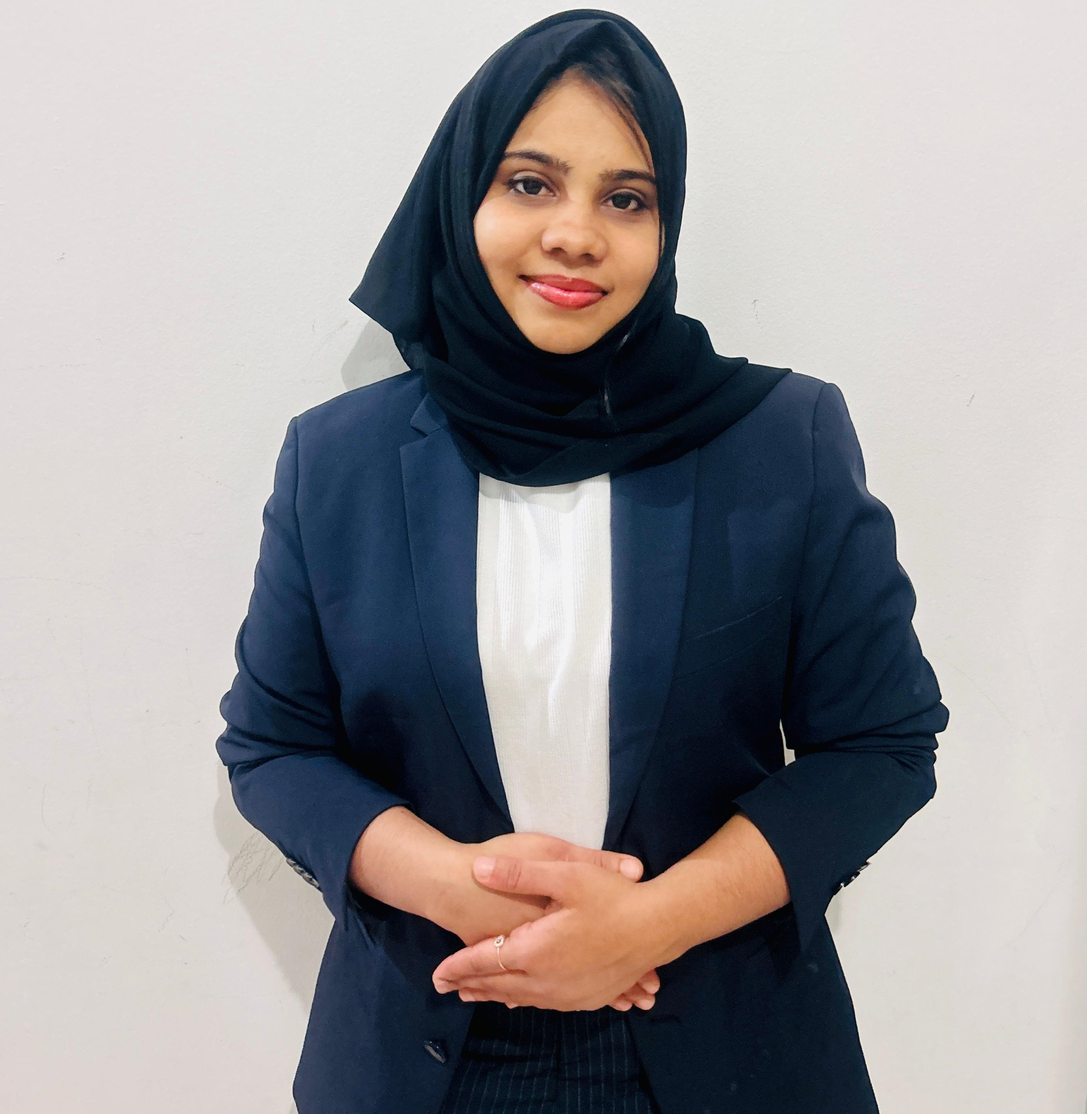
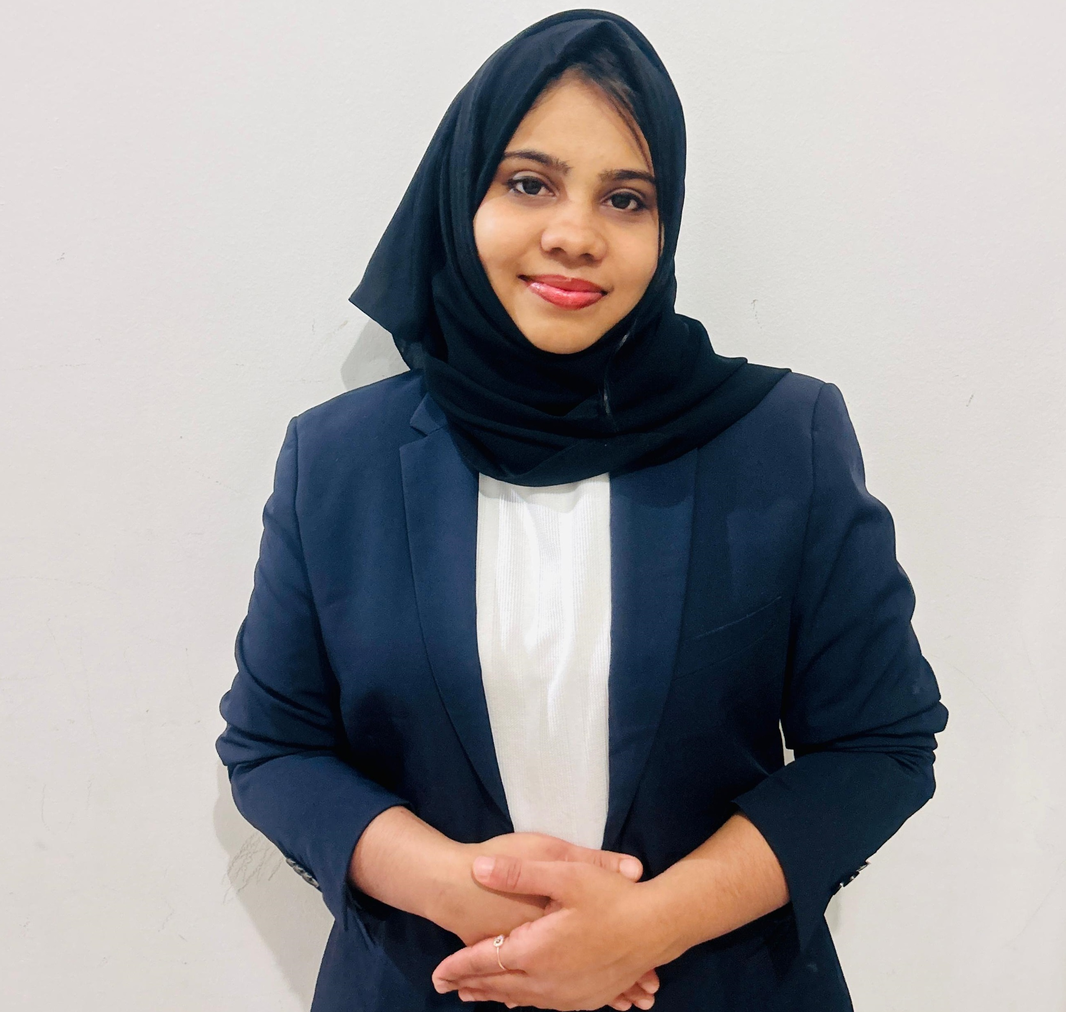
edited alignment

Changed region(s): [[0.1871, 0.0, 0.9045, 1.0], [0.9981, 0.9688, 1.0, 1.0]]

diff --git a/about.html b/about.html
@@ -41,19 +41,19 @@
         </header>
         <main class="flex-grow-1">
             <section id="about" class="py-5">
-                <div class="container">
-                    <div class="row align-items-center ">
-                        <div class=" col-md-6 col-sm-12 ">
+                <div class="container px-3 px-md-0">
+
+                    <div class="row align-items-center align-items-lg-start ">
+                        <div class=" col-md-6 col-sm-10 mt-3 mt-md-5 mt-lg-7 ">
 
                             <div class="frame">
-                                <img src="./images/about.jpeg" alt="About-Image" class=" about-image ">
+                                <img src="./images/about.jpeg" alt="About-Image" class=" about-image  ">
                             </div>
 
                         </div>
-                        <div class=" col-md-6 col-sm-12 ">
-                            <h2 class="text-warning"><span>About</span> Me </h2>
-
-                            <p class="text-secondary">
+                        <div class="col-md-6 col-sm-12 d-flex flex-column align-items-center align-items-lg-start">
+                            <h2 class="text-warning text-center text-lg-start"><span>About</span> Me</h2>
+                            <p class="text-secondary text-center text-lg-start">
                                 With One year of experience in React.js development, I am passionate about crafting modern, interactive, and responsive web applications. I specialize in front-end technologies, including React, Material UI, and Bootstrap, to create seamless and intuitive user experiences. My focus is on writing clean, efficient, and maintainable code while ensuring that every project aligns with the latest web standards and best practices. I am constantly learning and evolving, staying updated with industry trends to deliver high-quality, scalable solutions. Let's collaborate to turn ideas into functional, visually appealing web applications that make an impact!
                             </p>
                             

diff --git a/index.html b/index.html
@@ -44,8 +44,8 @@
         
         <!-- Hero section -->
  <section id="hero" class="py-5">
-    <div class="container">
-        <div class="row align-items-center">
+    <div class="container px-3 px-md-0">
+        <div class="row align-items-center  align-items-lg-start">
             <!-- Image Column - Appears first on small screens -->
             <div class="col-md-12 col-lg-6 order-first order-lg-last text-center">
                 <img src="./images/hero-page-image.jpeg" alt="hero picture" class="img-fluid w-75 rounded-5">
@@ -53,7 +53,7 @@
 
             <!-- Text Column - Appears last on small screens -->
             <div class="col-md-12 col-lg-6 text-center text-lg-start">
-                <h2>Hello, Welcome</h2>
+                <h2 class="mt-3 mt-md-5 mt-lg-7">Hello, Welcome</h2>
                 <h1><strong>I am Afra Fayas</strong></h1>
                 <h5 class="text-secondary">React Web Developer | Creative Designer | Problem Solver</h5>
                 <p class="text-secondary">

diff --git a/contact.html b/contact.html
@@ -46,8 +46,8 @@
 
 <!-- Contact Form -->
 <section  id="contact" class="py-5">
-    <div class="container">
-    <h2 class="text-warning text-center py-3"> <span>Contact</span>Me</h2>
+    <div class="container px-3 px-md-0">
+    <h2 class="text-warning text-center py-3"> <span>Contact</span> Me</h2>
     <form class="bg-light p-4 rounded-3 border border-warning mx-auto py-3" style="max-width: 600px;">
         <div class="mb-3">
             <label for="name" class="form-label">Name:</label>

diff --git a/projects.html b/projects.html
@@ -44,7 +44,7 @@
         <main flex-grow-1>
 
             <section id="projects" class="py-5">
-                <div class="container">
+                <div class="container px-3 px-md-0">
                   <h2 class="text-center mb-4 text-warning py-3"><span>My</span> Projects</h2>
                   <div class="row">
                     <div class="p-3 ">

diff --git a/skills.html b/skills.html
@@ -30,7 +30,7 @@
 
     <main class="flex-grow-1">
         <section id="skills" class="py-5">
-            <div class="container">
+            <div class="container px-3 px-md-0">
                 <div class="row">
                     <div class="p-3 col-12 text-center text-md-start">
                         <h2 class="text-warning">
